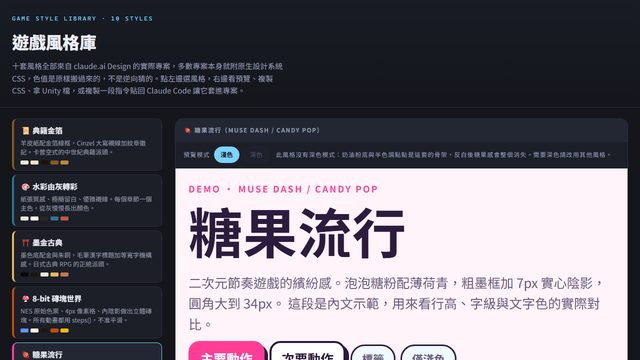
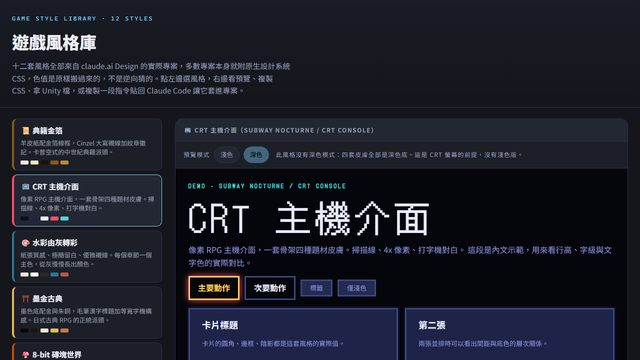
遊戲風格庫更新為十二套並換新預覽圖
補完 CRT 主機介面與鏽港夜行，封面改用 CRT 主機介面。

diff --git a/index.html b/index.html
@@ -194,7 +194,7 @@ const SITES = [
   { slug: "design-style-library", title: "設計風格庫", cat: "tool site", tag: "TOOL × DESIGN",
     desc: "八組文件與介面視覺風格：漫畫特刊、紙上期刊、深夜實驗室、克萊因藍、RPG 訊息視窗、規格控制台、靛藍儀表板、管線青。點風格看即時預覽，複製 CSS、拿 Unity 色票與 USS、產投影片主題參數，或複製一段指令貼回 Claude Code 直接套進專案。" },
   { slug: "game-style-library", title: "遊戲風格庫", cat: "tool site", tag: "TOOL × DESIGN",
-    desc: "十套遊戲題材視覺風格，抽自 Claude Design 專案的原生設計系統：糖果流行、典籍金箔、水彩由灰轉彩、8-bit 磚塊、夜巫金光、和紙墨繪、薔薇與椿、怪異事件簿、第十三格、墨金古典。含動態語彙、素材語彙與 AI 生圖 prompt。" },
+    desc: "十二套遊戲題材視覺風格，抽自 Claude Design 專案的原生設計系統：糖果流行、典籍金箔、水彩由灰轉彩、8-bit 磚塊、夜巫金光、和紙墨繪、薔薇與椿、怪異事件簿、第十三格、墨金古典、CRT 主機介面、鏽港夜行。含動態語彙、素材語彙與 AI 生圖 prompt；CRT 主機介面一套骨架附四種題材皮膚。" },
   { slug: "rpg-quest", title: "勇者的試煉", cat: "game story", tag: "GAME × RPG",
     image: "rpg-quest.png",
     desc: "月蝕將至，三名旅人只有一夜。從王城蒐集線索、集結同伴，穿越荒野與洞窟，以回合制戰鬥阻止魔王甦醒的繁中像素 RPG。" },
